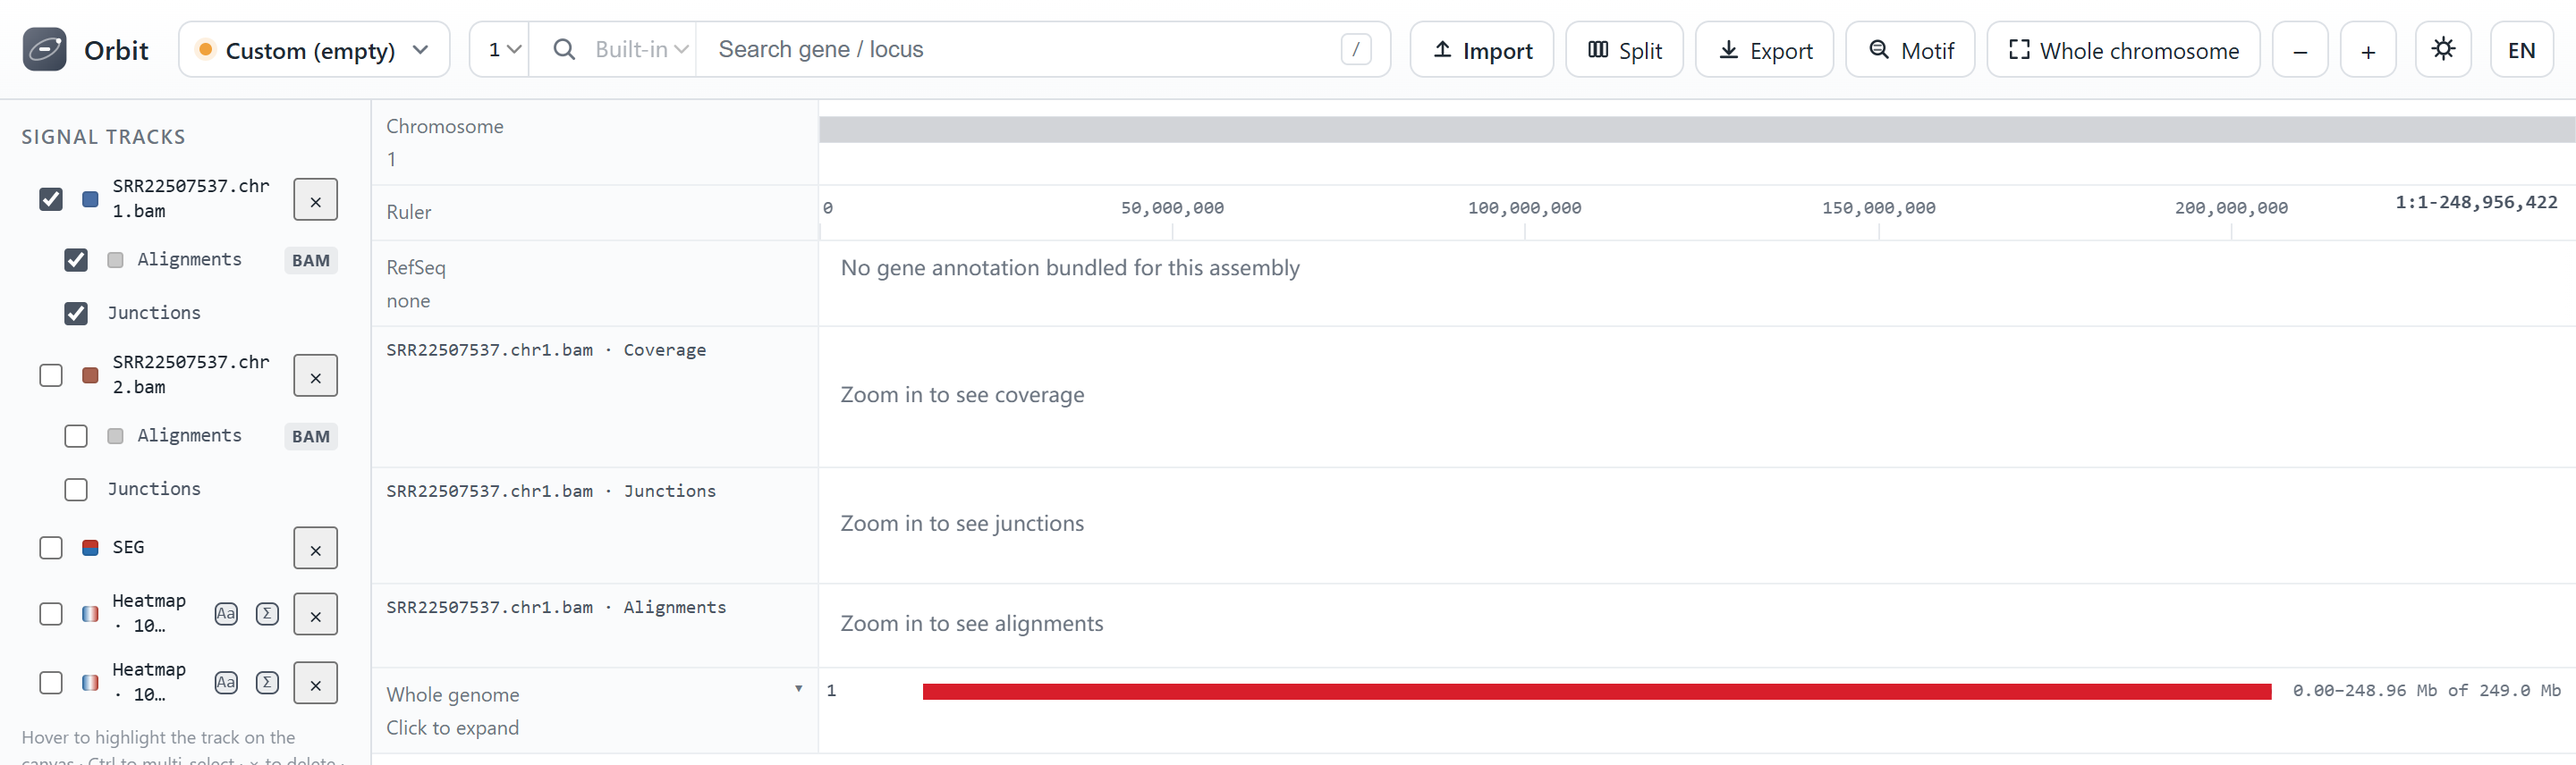
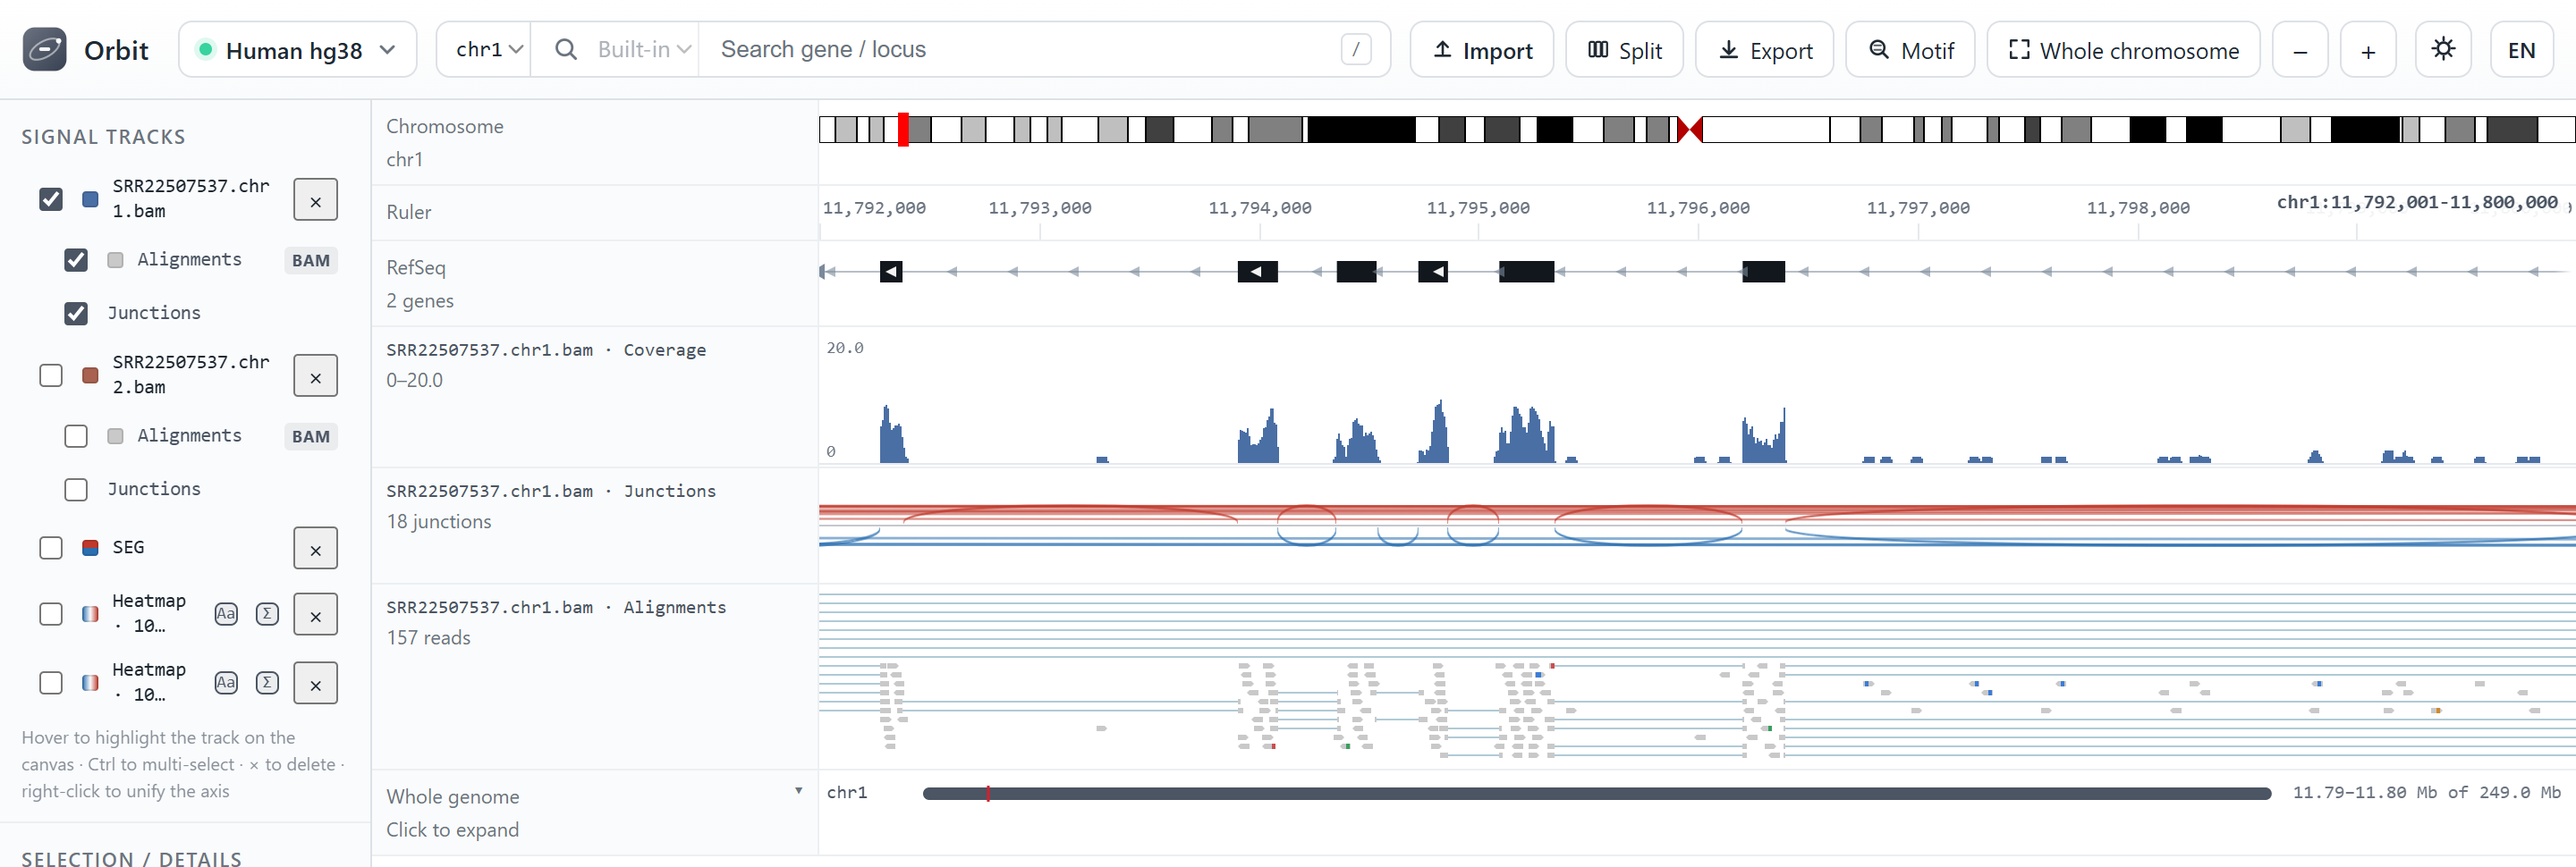
Docs: regenerate per-language screenshots on hg38 (fix assembly bleed in shooter)

diff --git a/tools/shoot_docs_i18n.js b/tools/shoot_docs_i18n.js
@@ -40,8 +40,12 @@ async function main() {
   // shot() 已经按 docs/examples 拼路径，这里只给相对名
   const out = (name) => `${LANG}/${name}`;
 
-  // 切语言：存 orbit.lang 后重载，页面里的中文/英文会被 i18n 整体替换
-  await goto(ev, cdp, `${BASE}/`);
+  // 切语言：存 orbit.lang 后重载，页面里的中文/英文会被 i18n 整体替换。
+  // 必须带上 ?db=，否则重载会沿用上一次会话的装配（自定义组会把 hg38 组带跑偏）。
+  const entry = SCOPE === 'hg38'
+    ? `${BASE}/?db=hg38&locus=chr1:11792000-11800000`
+    : `${BASE}/`;
+  await goto(ev, cdp, entry);
   await ev(`localStorage.setItem('orbit.lang', ${JSON.stringify(LANG)})`);
   await cdp.send('Page.reload', { ignoreCache: false });
   for (let i = 0; i < 150; i++) { if (await ev('!!window.__igv')) break; await sleep(200); }
